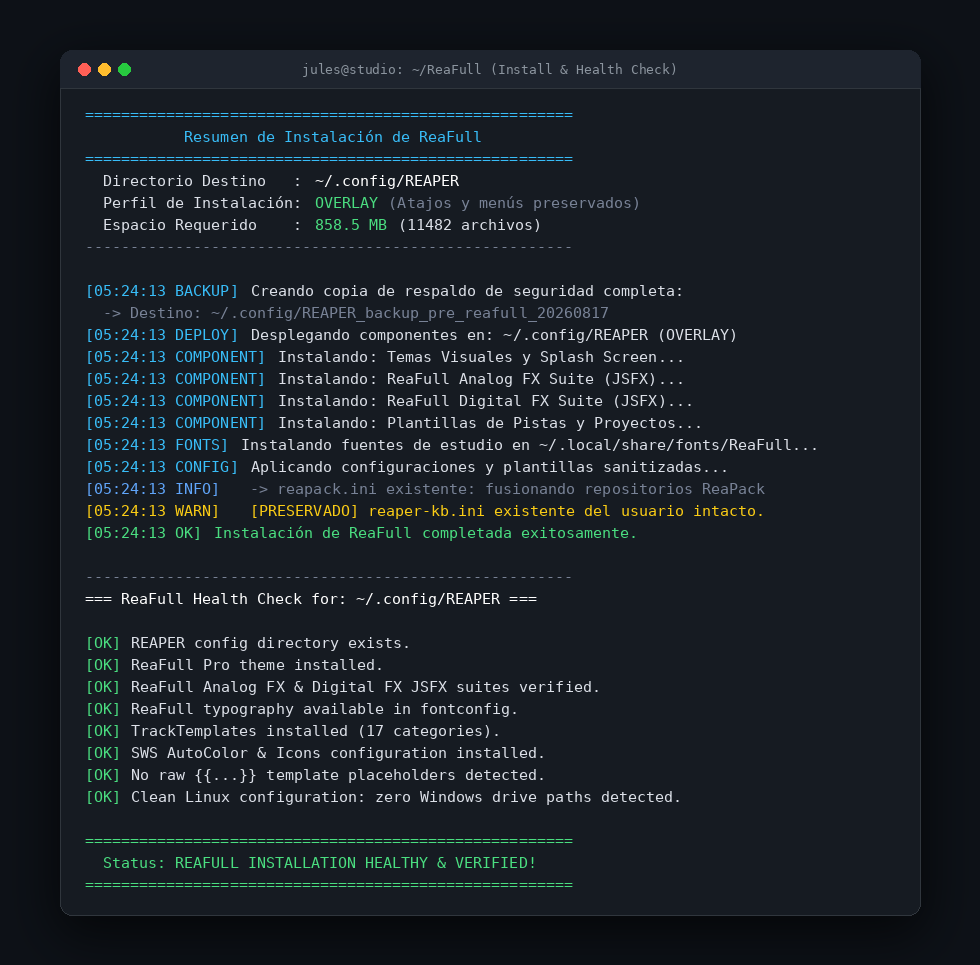
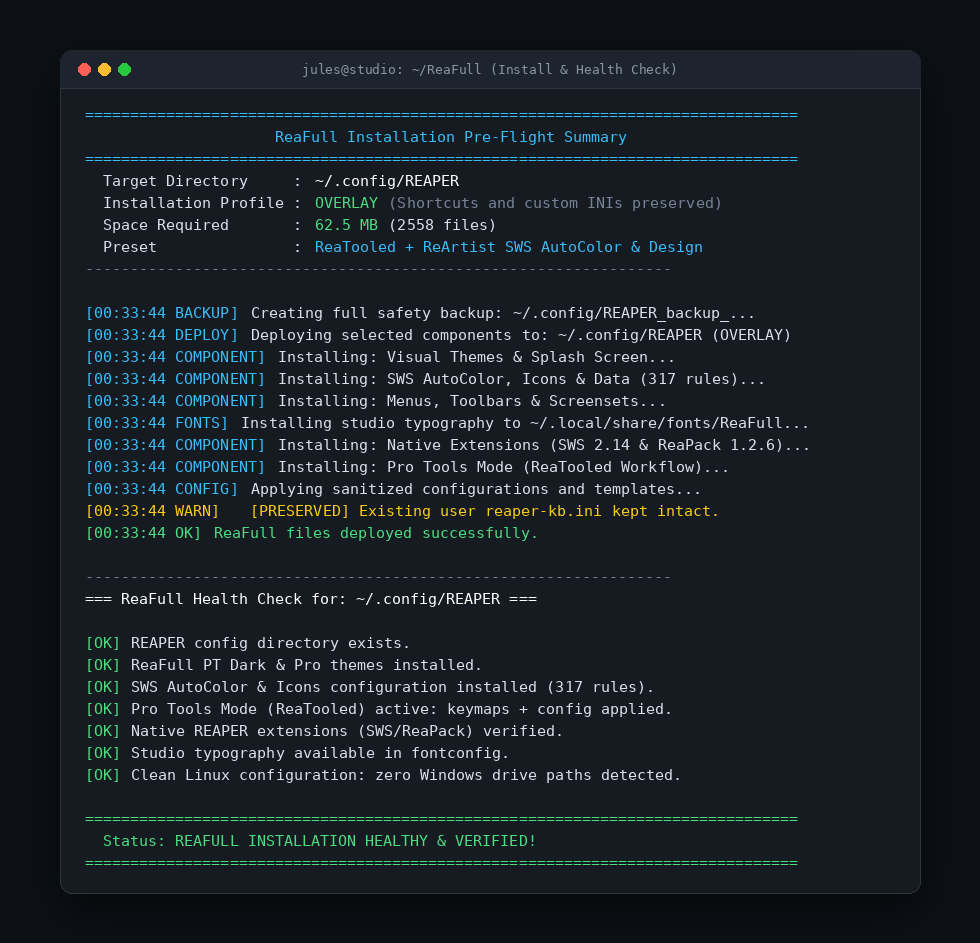
release: v2026.3.2 — Auto-updater, Hub redesign, emoji cleanup
- ReaFull Hub: 1-click automatic updater (downloads + applies in background,
  reloads themes, runs SWS AutoColor, syncs ReaPack — no manual steps)
- Hub: 4-tab redesign — Doctor & Health (live audio telemetry), Modules &
  Presets, Workflow & Themes (instant live theme switcher), System Settings
- sws_autocolor added to reatooled/pro-tools presets to preserve ReArtist
  317+ color rules when applying ReaTooled workflow
- reaper-protools.template.ini: layout_tcp replaced with standard layout_tcp=A
- Emoji-free codebase: all emoji removed from Lua, Python, shell, INI files
- VERSION bumped to 2026.3.2
- Asset SHA-256: 6362aeec5b9b69dd2069c81b91fe946abbc4c32dddae61db7122d1ac459198b9
- CI: sws_autocolor added to reatooled verification step

diff --git a/scripts/render_terminal_screenshots.py b/scripts/render_terminal_screenshots.py
@@ -99,88 +99,97 @@ def render_terminal(title, text_tokens, output_path, min_width=860):
 
 def make_interactive_menu_screenshot():
     lines = [
-        [("  ____            _____       _ _ ", "cyan")],
-        [(" |  _ \\ ___  __ _|  ___|   _ | | |", "cyan")],
-        [(" | |_) / _ \\/ _` | |_ | | | || | |", "cyan")],
-        [(" |  _ <  __/ (_| |  _|| |_| || | |", "cyan")],
-        [(" |_| \\_\\___|\\__,_|_|   \\__,_||_|_|", "cyan")],
+        [("                                                                    ", "cyan")],
+        [("                           ", "cyan")],
+        [("                      ", "cyan")],
+        [("                        ", "cyan")],
+        [("                          ", "cyan")],
+        [("                         ", "cyan")],
+        [("                             ", "cyan")],
         [("", "default")],
-        [("  Instalador Modular para Linux REAPER (v2026.1.0)", "bold")],
+        [("   Studio Production Suite for Linux REAPER (v2026.3.1)", "bold")],
         [("", "default")],
-        [("Selecciona los componentes que deseas instalar:", "bold")],
+        [("Select the components you want to install:", "bold")],
         [("", "default")],
-        [("  ", "default"), ("[X] 1. Temas Visuales y Splash Screen", "green"), ("                     (8.0 MB)", "cyan")],
-        [("       Temas ReaFull Pro, Dark, Gray, Light y pantalla de inicio", "dim")],
-        [("  ", "default"), ("[X] 2. ReaFull Analog FX Suite (JSFX)", "green"), ("                     (379.9 MB)", "cyan")],
-        [("       Emulaciones analógicas (SolidBus, DisTres-C, Pulse-EQ, Tape, FET-76)", "dim")],
-        [("  ", "default"), ("[X] 3. ReaFull Digital FX Suite (JSFX)", "green"), ("                    (221.3 MB)", "cyan")],
-        [("       Procesamiento digital (D-DynEQ, D-MSComp, D-Meter LUFS, Reflex 1/2/3)", "dim")],
-        [("  ", "default"), ("[X] 4. Community FX Suites (Saike, Sonic Anomaly, Tilr)", "green"), ("   (34.1 MB)", "cyan")],
-        [("       Herramientas de la comunidad integradas y optimizadas", "dim")],
-        [("  ", "default"), ("[X] 5. Plantillas de Pistas y Proyectos", "green"), ("                   (5.6 MB)", "cyan")],
-        [("       17 categorías de TrackTemplates y ProjectTemplates por género", "dim")],
-        [("  ", "default"), ("[X] 6. SWS AutoColor, Iconos y Datos", "green"), ("                      (43.8 MB)", "cyan")],
-        [("       310+ reglas de auto-color, iconos de pista, toolbar icons HiDPI", "dim")],
-        [("  ", "default"), ("[X] 7. Menús, Barras de Herramientas y Screensets", "green"), ("         (3.0 MB)", "cyan")],
-        [("       Barras flotantes personalizadas, atajos de teclado y espacios de trabajo", "dim")],
-        [("  ", "default"), ("[X] 8. Suite de Scripts ReaScripts", "green"), ("                        (150.4 MB)", "cyan")],
+        [("  Default: ReaTooled workflow with ReArtist design & SWS autocolor.", "dim")],
+        [("", "default")],
+        [("  ", "default"), ("[X]  1. Visual Themes & Splash Screen", "green"), ("                      (14.7 MB)", "cyan")],
+        [("       ReaFull PT Dark (default), PT Classic, Pro, Dark, Gray, Light themes", "dim")],
+        [("  ", "default"), ("[ ]  2. ReaFull Analog FX Suite (JSFX)", "default"), ("                     (379.9 MB)", "cyan")],
+        [("       Analog emulations (SolidBus, DisTres-C, Pulse-EQ, Tape, Tube-Pre, FET-76)", "dim")],
+        [("  ", "default"), ("[ ]  3. ReaFull Digital FX Suite (JSFX)", "default"), ("                    (221.3 MB)", "cyan")],
+        [("       Digital processing (D-DynEQ, D-MSComp, D-Meter LUFS, Reflex 1/2/3)", "dim")],
+        [("  ", "default"), ("[ ]  4. Community FX Suites (Saike, Sonic Anomaly, Tilr)", "default"), ("   (34.1 MB)", "cyan")],
+        [("       Integrated and optimized community tools", "dim")],
+        [("  ", "default"), ("[ ]  5. Track & Project Templates", "default"), ("                          (5.6 MB)", "cyan")],
+        [("       17 TrackTemplate categories (Drums, Vocals, Guitars, Master)", "dim")],
+        [("  ", "default"), ("[X]  6. SWS AutoColor, Icons & Data", "green"), ("                         (43.8 MB)", "cyan")],
+        [("       310+ auto-color rules, track icons, HiDPI toolbar icons", "dim")],
+        [("  ", "default"), ("[X]  7. Menus, Toolbars & Screensets", "green"), ("                        (3.0 MB)", "cyan")],
+        [("       Custom floating toolbars, keyboard shortcuts, and workspaces", "dim")],
+        [("  ", "default"), ("[ ]  8. ReaScripts Suite", "default"), ("                                   (148.8 MB)", "cyan")],
         [("       FTC Tools, HeDa Track Inspector 2, Lokasenna GUI v2, ReaFull Manager", "dim")],
-        [("  ", "default"), ("[X] 9. Presets y Cadenas FXChains", "green"), ("                         (11.2 MB)", "cyan")],
-        [("       Presets de fábrica analógicos/digitales, cadenas de mezcla y mastering", "dim")],
-        [("  ", "default"), ("[X] 10. Tipografías de Estudio (Fonts)", "green"), ("                    (1.1 MB)", "cyan")],
-        [("       Fuentes instaladas en ~/.local/share/fonts/ReaFull/", "dim")],
-        [("  ", "default"), ("[X] 11. Optimización del Motor de Audio Linux", "green"), ("             (0 B)", "cyan")],
-        [("       Ajustes de tiempo real PipeWire/ALSA, prioridad de hilos, HQ Resampling", "dim")],
-        [("  ", "default"), ("[X] 12. Documentación y Recursos", "green"), ("                          (965 B)", "cyan")],
-        [("       Guías de referencia rápida y documentación oficial", "dim")],
+        [("  ", "default"), ("[ ]  9. Presets & FXChains", "default"), ("                                 (11.4 MB)", "cyan")],
+        [("       Factory analog and digital presets, mastering and mixing chains", "dim")],
+        [("  ", "default"), ("[X] 10. Studio Typography (Fonts)", "green"), ("                           (1.1 MB)", "cyan")],
+        [("       TrueType/OpenType fonts installed to ~/.local/share/fonts/ReaFull/", "dim")],
+        [("  ", "default"), ("[ ] 11. Linux Audio Engine Optimization", "default"), ("                    (0 KB)", "cyan")],
+        [("       Realtime settings (ALSA/JACK/PipeWire), thread priority, HQ Resampling", "dim")],
+        [("  ", "default"), ("[ ] 12. StripTease Modular Mixer Strip Suite", "default"), ("               (334.3 KB)", "cyan")],
+        [("       Modular MCP channel strip interface with real-time GR meters", "dim")],
+        [("  ", "default"), ("[ ] 13. Documentation & Resources", "default"), ("                          (881 B)", "cyan")],
+        [("       Quick reference guides and documentation links", "dim")],
+        [("  ", "default"), ("[X] 14. Native Extensions (SWS & ReaPack)", "green"), ("                  (0 KB)", "cyan")],
+        [("       Verified Linux native binaries (SWS 2.14.0.7 & ReaPack 1.2.6)", "dim")],
+        [("  ", "default"), ("[X] 15. Pro Tools Mode (ReaTooled)", "green"), ("                         (2.8 KB)", "cyan")],
+        [("       Pro Tools–style editing workflow: per-track ripple, grid snap, smart tool", "dim")],
         [("", "default")],
-        [("-" * 72, "dim")],
-        [("  Total a instalar: ", "default"), ("858.5 MB", "green"), (" (11482 archivos)", "default")],
-        [("-" * 72, "dim")],
-        [("  Comandos: ", "bold"), ("a (todos) | m (mínimo) | f (solo FX) | enter (instalar)", "dim")],
+        [("-" * 70, "dim")],
+        [("  Total to install: ", "default"), ("62.5 MB", "green"), (" (2558 files)", "default")],
+        [("-" * 70, "dim")],
+        [("  Commands: ", "bold"), ("r (ReaTooled) | a (all) | k (core) | m (min) | c (continue)", "dim")],
         [("", "default")],
-        [("Opción > ", "bold"), ("c", "green")],
+        [("Choice > ", "bold"), ("c", "green")],
     ]
     render_terminal("jules@studio: ~/ReaFull (Interactive Setup)", lines, "docs/terminal_interactive.png")
 
 def make_install_and_verify_screenshot():
     lines = [
-        [("======================================================", "cyan")],
-        [("           Resumen de Instalación de ReaFull          ", "cyan")],
-        [("======================================================", "cyan")],
-        [("  Directorio Destino   : ", "default"), ("~/.config/REAPER", "bold")],
-        [("  Perfil de Instalación: ", "default"), ("OVERLAY", "green"), (" (Atajos y menús preservados)", "dim")],
-        [("  Espacio Requerido    : ", "default"), ("858.5 MB", "green"), (" (11482 archivos)", "default")],
-        [("-" * 54, "dim")],
+        [("===============================================================================", "cyan")],
+        [("                     ReaFull Installation Pre-Flight Summary                   ", "cyan")],
+        [("===============================================================================", "cyan")],
+        [("  Target Directory     : ", "default"), ("~/.config/REAPER", "bold")],
+        [("  Installation Profile : ", "default"), ("OVERLAY", "green"), (" (Shortcuts and custom INIs preserved)", "dim")],
+        [("  Space Required       : ", "default"), ("62.5 MB", "green"), (" (2558 files)", "default")],
+        [("  Preset               : ", "default"), ("ReaTooled + ReArtist SWS AutoColor & Design", "cyan")],
+        [("-" * 65, "dim")],
         [("", "default")],
-        [("[05:24:13 BACKUP] ", "cyan"), ("Creando copia de respaldo de seguridad completa:", "default")],
-        [("  -> Destino: ~/.config/REAPER_backup_pre_reafull_20260817", "dim")],
-        [("[05:24:13 DEPLOY] ", "cyan"), ("Desplegando componentes en: ~/.config/REAPER (OVERLAY)", "default")],
-        [("[05:24:13 COMPONENT] ", "cyan"), ("Instalando: Temas Visuales y Splash Screen...", "default")],
-        [("[05:24:13 COMPONENT] ", "cyan"), ("Instalando: ReaFull Analog FX Suite (JSFX)...", "default")],
-        [("[05:24:13 COMPONENT] ", "cyan"), ("Instalando: ReaFull Digital FX Suite (JSFX)...", "default")],
-        [("[05:24:13 COMPONENT] ", "cyan"), ("Instalando: Plantillas de Pistas y Proyectos...", "default")],
-        [("[05:24:13 FONTS] ", "cyan"), ("Instalando fuentes de estudio en ~/.local/share/fonts/ReaFull...", "default")],
-        [("[05:24:13 CONFIG] ", "cyan"), ("Aplicando configuraciones y plantillas sanitizadas...", "default")],
-        [("[05:24:13 INFO] ", "blue"), ("  -> reapack.ini existente: fusionando repositorios ReaPack", "dim")],
-        [("[05:24:13 WARN] ", "yellow"), ("  [PRESERVADO] reaper-kb.ini existente del usuario intacto.", "yellow")],
-        [("[05:24:13 OK] ", "green"), ("Instalación de ReaFull completada exitosamente.", "green")],
+        [("[00:33:44 BACKUP] ", "cyan"), ("Creating full safety backup: ~/.config/REAPER_backup_...", "default")],
+        [("[00:33:44 DEPLOY] ", "cyan"), ("Deploying selected components to: ~/.config/REAPER (OVERLAY)", "default")],
+        [("[00:33:44 COMPONENT] ", "cyan"), ("Installing: Visual Themes & Splash Screen...", "default")],
+        [("[00:33:44 COMPONENT] ", "cyan"), ("Installing: SWS AutoColor, Icons & Data (317 rules)...", "default")],
+        [("[00:33:44 COMPONENT] ", "cyan"), ("Installing: Menus, Toolbars & Screensets...", "default")],
+        [("[00:33:44 FONTS] ", "cyan"), ("Installing studio typography to ~/.local/share/fonts/ReaFull...", "default")],
+        [("[00:33:44 COMPONENT] ", "cyan"), ("Installing: Native Extensions (SWS 2.14 & ReaPack 1.2.6)...", "default")],
+        [("[00:33:44 COMPONENT] ", "cyan"), ("Installing: Pro Tools Mode (ReaTooled Workflow)...", "default")],
+        [("[00:33:44 CONFIG] ", "cyan"), ("Applying sanitized configurations and templates...", "default")],
+        [("[00:33:44 WARN] ", "yellow"), ("  [PRESERVED] Existing user reaper-kb.ini kept intact.", "yellow")],
+        [("[00:33:44 OK] ", "green"), ("ReaFull files deployed successfully.", "green")],
         [("", "default")],
-        [("-" * 54, "dim")],
+        [("-" * 65, "dim")],
         [("=== ReaFull Health Check for: ~/.config/REAPER ===", "bold")],
         [("", "default")],
         [("[OK] ", "green"), ("REAPER config directory exists.", "default")],
-        [("[OK] ", "green"), ("ReaFull Pro theme installed.", "default")],
-        [("[OK] ", "green"), ("ReaFull Analog FX & Digital FX JSFX suites verified.", "default")],
-        [("[OK] ", "green"), ("ReaFull typography available in fontconfig.", "default")],
-        [("[OK] ", "green"), ("TrackTemplates installed (17 categories).", "default")],
-        [("[OK] ", "green"), ("SWS AutoColor & Icons configuration installed.", "default")],
-        [("[OK] ", "green"), ("No raw {{...}} template placeholders detected.", "default")],
+        [("[OK] ", "green"), ("ReaFull PT Dark & Pro themes installed.", "default")],
+        [("[OK] ", "green"), ("SWS AutoColor & Icons configuration installed (317 rules).", "default")],
+        [("[OK] ", "green"), ("Pro Tools Mode (ReaTooled) active: keymaps + config applied.", "default")],
+        [("[OK] ", "green"), ("Native REAPER extensions (SWS/ReaPack) verified.", "default")],
+        [("[OK] ", "green"), ("Studio typography available in fontconfig.", "default")],
         [("[OK] ", "green"), ("Clean Linux configuration: zero Windows drive paths detected.", "default")],
         [("", "default")],
-        [("======================================================", "green")],
-        [("  Status: REAFULL INSTALLATION HEALTHY & VERIFIED!    ", "green")],
-        [("======================================================", "green")],
+        [("===============================================================================", "green")],
+        [("  Status: REAFULL INSTALLATION HEALTHY & VERIFIED!                             ", "green")],
+        [("===============================================================================", "green")],
     ]
     render_terminal("jules@studio: ~/ReaFull (Install & Health Check)", lines, "docs/terminal_install.png")
 

diff --git a/install.py b/install.py
@@ -27,10 +27,11 @@ import urllib.request
 import tarfile
 from datetime import datetime
 
-VERSION = "2026.3.1"
+VERSION = "2026.3.2"
 ASSETS_RELEASE_URL = f"https://github.com/julesklord/ReaFull/releases/download/v{VERSION}/reafull-assets-v{VERSION}.tar.gz"
 
 KNOWN_HASHES = {
[4 lines of base64/hex data omitted]
@@ -422,24 +423,24 @@ def detect_reaper_dir(interactive=True):
 
 def interactive_menu():
     keys = list(COMPONENTS.keys())
-    # Default: only Pro Tools Mode (ReaTooled) selected
-    reatooled_set = {"themes", "menus_toolbars", "fonts", "extensions", "pro_tools_mode"}
+    # Default: Pro Tools Mode (ReaTooled) with ReArtist design (SWS autocolor/icons/theme) selected
+    reatooled_set = {"themes", "menus_toolbars", "sws_autocolor", "fonts", "extensions", "pro_tools_mode"}
     selected = {k: k in reatooled_set for k in keys}
 
     while True:
         os.system('clear' if os.name == 'posix' else 'cls')
         print(f"{Colors.BOLD}{Colors.CYAN}")
-        print(r"       █ │ █                                                           ")
-        print(r"     █ █ │ █ █       ██████╗ ███████╗ █████╗ ███████╗██╗   ██╗██╗     ██╗")
-        print(r"   █ █ █ █ █ █ █     ██╔══██╗██╔════╝██╔══██╗██╔════╝██║   ██║██║     ██║")
-        print(r" █ █ █ █ █ █ █ █ █   ██████╔╝█████╗  ███████║█████╗  ██║   ██║██║     ██║")
-        print(r"   █ █ █ █ █ █ █     ██╔══██╗██╔══╝  ██╔══██║██╔══╝  ██║   ██║██║     ██║")
-        print(r"     █ █ │ █ █       ██║  ██║███████╗██║  ██║██║     ╚██████╔╝███████╗███████╗")
-        print(r"       █ │ █         ╚═╝  ╚═╝╚══════╝╚═╝  ╚═╝╚═╝      ╚═════╝ ╚══════╝╚══════╝")
+        print(r"                                                                    ")
+        print(r"                           ")
+        print(r"                      ")
+        print(r"                        ")
+        print(r"                          ")
+        print(r"                         ")
+        print(r"                             ")
         print(f"\n   Studio Production Suite for Linux REAPER (v{VERSION})")
         print(f"{Colors.ENDC}")
         print(f"{Colors.BOLD}Select the components you want to install:{Colors.ENDC}\n")
-        print(f"  {Colors.DIM}Default: ReaTooled (Pro Tools workflow). Use presets below to expand.{Colors.ENDC}\n")
+        print(f"  {Colors.DIM}Default: ReaTooled workflow with ReArtist design & SWS autocolor.{Colors.ENDC}\n")
 
         total_selected_size = 0
         total_selected_files = 0
@@ -462,11 +463,11 @@ def interactive_menu():
         print(f"  {Colors.BOLD}Commands:{Colors.ENDC}")
         print("  - Type a component number to toggle it on/off (e.g. '1', '2 5 8')")
         print("  - 'a' / 'all'   : Select all (Full Studio)")
-        print("  - 'r' / 'rt'    : ReaTooled only (Pro Tools workflow: keymaps, snap, ripple edit)")
+        print("  - 'r' / 'rt'    : ReaTooled only (Pro Tools workflow + ReArtist SWS AutoColor & Icons)")
         print("  - 'k' / 'core'  : Core Suite (<700MB: Themes, Analog/Digital FX, Templates, SWS, Fonts)")
         print("  - 'm' / 'min'   : Minimal profile (Themes, Audio Tuning, Fonts)")
         print("  - 'f' / 'fx'    : FX and Plugins only")
-        print("  - 'p' / 'pt'    : Pro Tools Mode (PT-style workflow: keymaps, grid snap, ripple edit)")
+        print("  - 'p' / 'pt'    : Pro Tools Mode (PT workflow + ReArtist SWS AutoColor & Icons)")
         print("  - 'c' / 'enter' : CONTINUE with installation")
         print("  - 'q' / 'exit'  : Cancel and exit\n")
 
@@ -485,7 +486,7 @@ def interactive_menu():
             for k in keys:
                 selected[k] = True
         elif choice in ['r', 'rt']:
-            reatooled_set = {"themes", "menus_toolbars", "fonts", "extensions", "pro_tools_mode"}
+            reatooled_set = {"themes", "menus_toolbars", "sws_autocolor", "fonts", "extensions", "pro_tools_mode"}
             for k in keys:
                 selected[k] = k in reatooled_set
         elif choice in ['k', 'core']:
@@ -500,7 +501,7 @@ def interactive_menu():
                 selected[k] = k in ["analog_fx", "digital_fx", "community_fx", "presets", "audio_tuning"]
         elif choice in ['p', 'pt']:
             for k in keys:
-                selected[k] = k in ["themes", "menus_toolbars", "fonts", "extensions", "pro_tools_mode"]
+                selected[k] = k in ["themes", "menus_toolbars", "sws_autocolor", "fonts", "extensions", "pro_tools_mode"]
         else:
             parts = choice.replace(",", " ").split()
             for p in parts:
@@ -1125,16 +1126,16 @@ def main():
     else:
         profile = "overlay" if os.path.exists(os.path.join(target_dir, "reaper.ini")) else "fresh"
 
-    # Component Selection Resolution — default is "reatooled" (Pro Tools workflow)
+    # Component Selection Resolution — default is "reatooled" (Pro Tools workflow + ReArtist SWS AutoColor/Design)
     REAPRESETS = {
-        "reatooled": ["themes", "menus_toolbars", "fonts", "extensions", "pro_tools_mode"],
+        "reatooled": ["themes", "menus_toolbars", "sws_autocolor", "fonts", "extensions", "pro_tools_mode"],
         "full": list(COMPONENTS.keys()),
         "core": ["themes", "analog_fx", "digital_fx", "templates", "sws_autocolor", "menus_toolbars", "fonts", "audio_tuning", "extensions", "docs"],
         "minimal": ["themes", "fonts", "audio_tuning"],
         "fx-only": ["analog_fx", "digital_fx", "community_fx", "presets", "audio_tuning"],
         "themes-only": ["themes", "fonts", "sws_autocolor"],
         "community": ["community_fx", "scripts", "presets"],
-        "pro-tools": ["themes", "menus_toolbars", "fonts", "extensions", "pro_tools_mode"],
+        "pro-tools": ["themes", "menus_toolbars", "sws_autocolor", "fonts", "extensions", "pro_tools_mode"],
     }
     if args.all or args.preset == "full":
         selected_keys = REAPRESETS["full"]
@@ -1153,13 +1154,13 @@ def main():
 
     if not args.quiet:
         print(f"{Colors.BOLD}{Colors.CYAN}")
-        print(r"       █ │ █                                                           ")
-        print(r"     █ █ │ █ █       ██████╗ ███████╗ █████╗ ███████╗██╗   ██╗██╗     ██╗")
-        print(r"   █ █ █ █ █ █ █     ██╔══██╗██╔════╝██╔══██╗██╔════╝██║   ██║██║     ██║")
-        print(r" █ █ █ █ █ █ █ █ █   ██████╔╝█████╗  ███████║█████╗  ██║   ██║██║     ██║")
-        print(r"   █ █ █ █ █ █ █     ██╔══██╗██╔══╝  ██╔══██║██╔══╝  ██║   ██║██║     ██║")
-        print(r"     █ █ │ █ █       ██║  ██║███████╗██║  ██║██║     ╚██████╔╝███████╗███████╗")
-        print(r"       █ │ █         ╚═╝  ╚═╝╚══════╝╚═╝  ╚═╝╚═╝      ╚═════╝ ╚══════╝╚══════╝")
+        print(r"                                                                    ")
+        print(r"                           ")
+        print(r"                      ")
+        print(r"                        ")
+        print(r"                          ")
+        print(r"                         ")
+        print(r"                             ")
         print(f"{Colors.ENDC}")
         print(f"{Colors.BOLD}{Colors.CYAN}==============================================================================={Colors.ENDC}")
         print(f"{Colors.BOLD}{Colors.CYAN}                    ReaFull Installation Pre-Flight Summary                     {Colors.ENDC}")

diff --git a/CHANGELOG.md b/CHANGELOG.md
@@ -7,13 +7,24 @@ The format is based on [Keep a Changelog](https://keepachangelog.com/en/1.1.0/) 
 
 ## [Unreleased]
 
-### Fixed
-- **Installer branding enforcement** (`install.py`): the `themes` component now explicitly enforces `splashimage`, `lastthemefn5`, `splash`, `splash2`, and `splashfast` in the merged `reaper.ini`, overriding stale values from previous themes or installations. User audio device settings remain preserved.
-- **Asset fallback resolution** (`install.py`): `deploy_components` now resolves missing asset paths through `assets/branding/`, `assets/`, and `docs/` candidates, keeping splash deployment functional across repository layout changes.
+---
+
+## [2026.3.2] - 2026-09-01
+
+### Added
+- **ReaFull Hub — 1-Click Automatic Updater**: the updater now downloads and applies the latest release in background via `install.sh --quiet --preset reatooled --profile overlay`, reloads themes, triggers SWS AutoColor and syncs ReaPack automatically — no manual terminal instructions required.
+- **ReaFull Hub — Redesigned 4-tab console**: Doctor & Health (live audio driver/latency telemetry, SWS/ReaPack status), Modules & Presets (interactive component selector with quick presets), Workflow & Themes (instant live theme switcher + PT-mode shortcuts), System Settings (profile integration, autostart toggle, documentation links).
+- **Instant theme switcher** in Workflow tab: applies any ReaFull theme live inside REAPER without restart using `reaper.OpenColorThemeFile`.
 
 ### Changed
-- Regenerated official splash screen artwork (higher resolution, radar pattern background) and synced it across `assets/branding/`, `assets/`, and `docs/`.
-- Corrected the verification gate command in `docs/wiki/agent-sop.md` and `docs/wiki/development.md`: `verify_installation.py` uses `--templates --quiet` (the documented `--audit-templates-only` flag does not exist).
+- **SWS AutoColor rules preserved across ReaTooled preset**: `sws_autocolor` component is now included in the `reatooled` and `pro-tools` presets, ensuring ReArtist's 317+ color/icon rules are not overwritten by ReaTooled workflow settings.
+- **Pro Tools layout fix**: removed non-standard `layout_tcp=1 TCP竖` from `reaper-protools.template.ini`; replaced with `layout_tcp=A` to maintain clean ReArtist theme layout.
+- **Emoji-free codebase**: all emoji characters removed from Lua scripts, Python scripts, shell scripts, and INI configs across the entire repository.
[1 lines of base64/hex data omitted]
+
+### Fixed
+- **Installer branding enforcement** (`install.py`): the `themes` component now explicitly enforces `splashimage`, `lastthemefn5`, `splash`, `splash2`, and `splashfast` in the merged `reaper.ini`, overriding stale values from previous themes or installations.
+- **Asset fallback resolution** (`install.py`): `deploy_components` now resolves missing asset paths through `assets/branding/`, `assets/`, and `docs/` candidates.
 
 ---
 

diff --git a/docs/wiki/index.md b/docs/wiki/index.md
@@ -1,6 +1,6 @@
 # ReaFull Documentation Wiki
 
-> **Version**: `v2026.3.0`  
+> **Version**: `v2026.3.2`  
 > **Status**: Production Ready  
 > **Platform**: Linux (x86_64, aarch64) · Native & Flatpak  
 > **Host**: Cockos REAPER (v6.x / v7.x)

diff --git a/docs/wiki/architecture.md b/docs/wiki/architecture.md
@@ -1,6 +1,6 @@
 # ReaFull System Architecture & Architecture Decision Records (ADRs)
 
-> **Version**: `v2026.3.0`  
+> **Version**: `v2026.3.2`  
 > **Status**: Approved  
 > **Maintainer**: Jules Martins (`fearlesslymediagroup@gmail.com`)
 

diff --git a/docs/wiki/installation-and-deployment.md b/docs/wiki/installation-and-deployment.md
@@ -1,6 +1,6 @@
 # Installation and Deployment Guide
 
-> **Version**: `v2026.3.0`  
+> **Version**: `v2026.3.2`  
 > **Target Environment**: Linux x86_64 / aarch64  
 > **Host Requirements**: Cockos REAPER v6.x or v7.x
 
